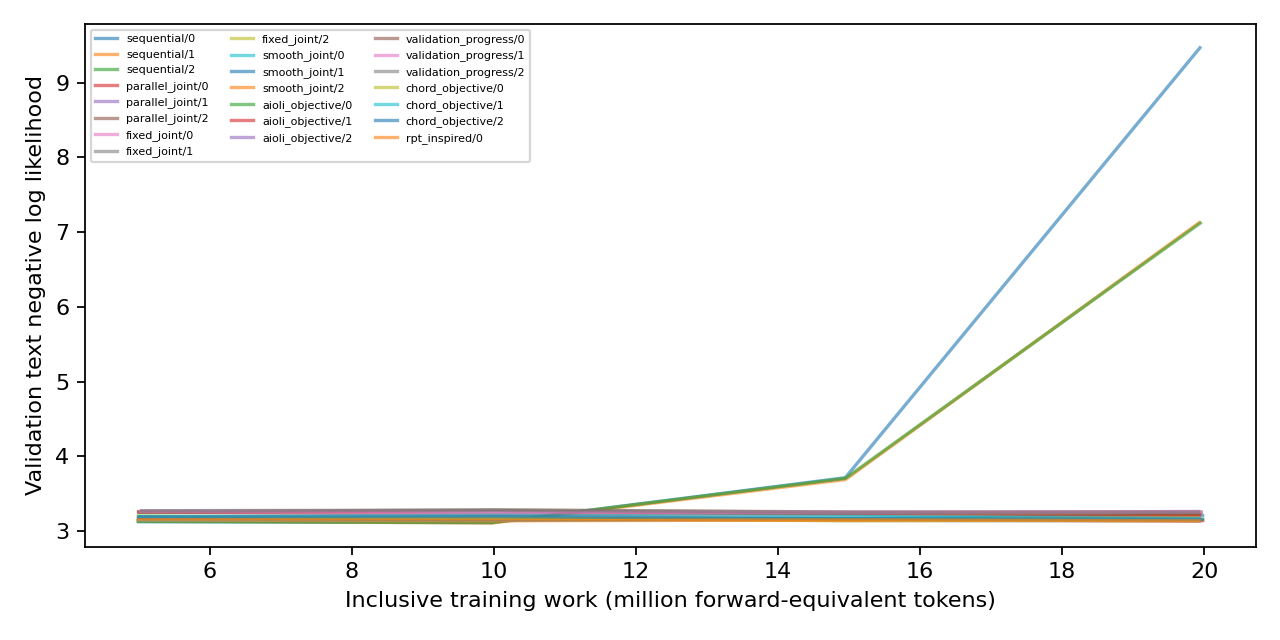
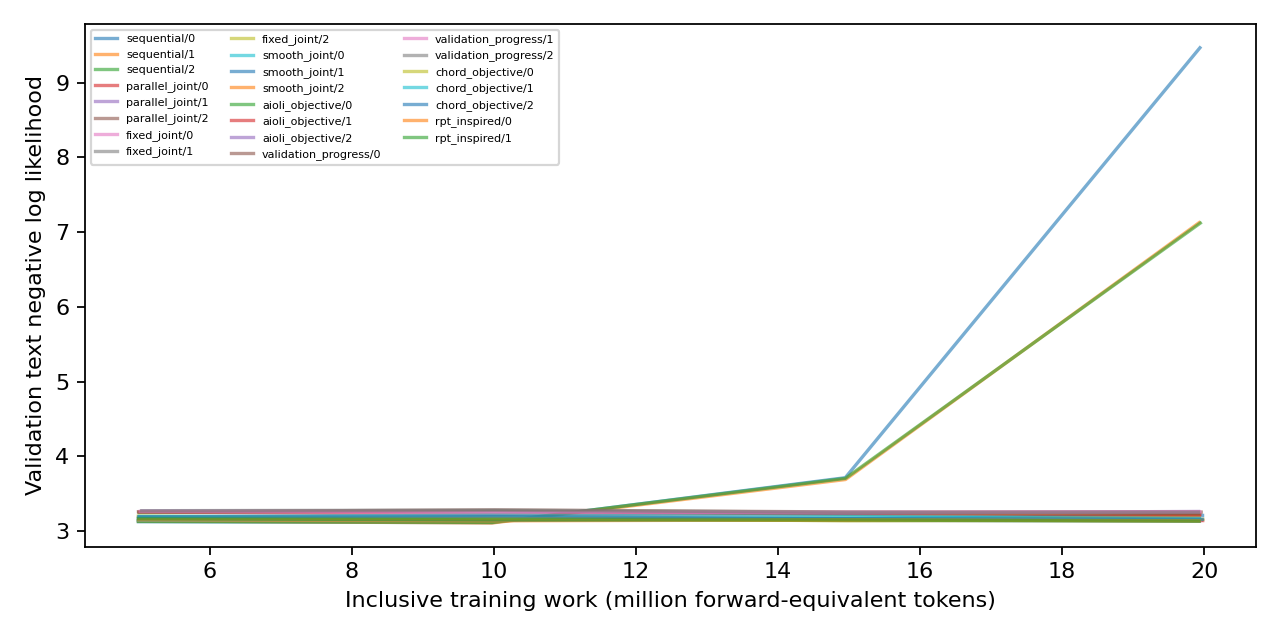
Report verified unified-training pilot progress

Changed region(s): [[0.0625, 0.0312, 0.4375, 0.2812], [0.7812, 0.8125, 0.9375, 0.8438], [0.125, 0.7812, 0.25, 0.8125]]

diff --git a/experiments/02_early_checkpoint_joint_objectives/results.md b/experiments/02_early_checkpoint_joint_objectives/results.md
@@ -26,14 +26,14 @@
 | chord_objective | 1 | complete | 19.934 | 0.3363 [0.3176, 0.3555] | 0.0015 [0.0004, 0.0055] | 3.2573 [3.2277, 3.2856] | 0.6016 [0.5405, 0.6596] / 0.5234 [0.4624, 0.5838] |
 | chord_objective | 2 | complete | 19.975 | 0.3266 [0.3080, 0.3457] | 0.0205 [0.0141, 0.0296] | 3.2685 [3.2388, 3.2973] | 0.5977 [0.5366, 0.6559] / 0.6133 [0.5524, 0.6708] |
 | rpt_inspired | 0 | complete | 19.929 | 0.3577 [0.3387, 0.3772] | 0.0167 [0.0110, 0.0251] | 3.2360 [3.2053, 3.2659] | 0.6172 [0.5563, 0.6746] / 0.4102 [0.3517, 0.4713] |
-| rpt_inspired | 1 | pending | unavailable | unavailable | unavailable | unavailable | unavailable |
+| rpt_inspired | 1 | complete | 19.927 | 0.3253 [0.3068, 0.3444] | 0.0197 [0.0135, 0.0287] | 3.2387 [3.2081, 3.2679] | 0.5938 [0.5326, 0.6521] / 0.5156 [0.4546, 0.5762] |
 | rpt_inspired | 2 | pending | unavailable | unavailable | unavailable | unavailable | unavailable |
 
 NLL = negative log likelihood; preference raw ordering is the preference endpoint, implicit ordering is diagnostic. Scratch primary: WikiText NLL; early-checkpoint primary: ARC-Easy normalized accuracy. Unassisted GSM8K remains a sparse secondary diagnostic.
 
 Intervals: 95% Wilson binary-item score, conditional on each trained model; p-val=n/a (no hypothesis test). Three seeds do not establish universal superiority. Aioli, CHORD (Controllable Harmonization of On- and Off-Policy Reinforcement Learning via Dynamic Weighting), and RPT (Reinforcement Pre-Training) are declared adaptations; exact CHERRY-RL identity remains unresolved.
 
-Complete: 22/24. See `expt_v1/PROTOCOL.md` and the program review reconciliation.
+Complete: 23/24. See `expt_v1/PROTOCOL.md` and the program review reconciliation.
 
 Seed uncertainty, two-stage seed/item intervals, initial-checkpoint changes and all paired comparisons: `expt_v1/analysis.json`. Missing trained seeds remain missing with separate accuracy sensitivity bounds. p-val=n/a throughout; no formal superiority verdict.
 

diff --git a/experiments/00_program/FINAL_STATUS.md b/experiments/00_program/FINAL_STATUS.md
@@ -1,6 +1,6 @@
 # Full-program status
 
-Verified cells: 46/48; failed: 0; interrupted: 0; pending: 2; unstarted at global bound: 0.
+Verified cells: 47/48; failed: 0; interrupted: 0; pending: 1; unstarted at global bound: 0.
 
 Full-program execution is incomplete. Required plan and implementation findings are reconciled; see acceptance.json.
 Results and uncertainty are in each experiment folder; no universal-superiority claim.
